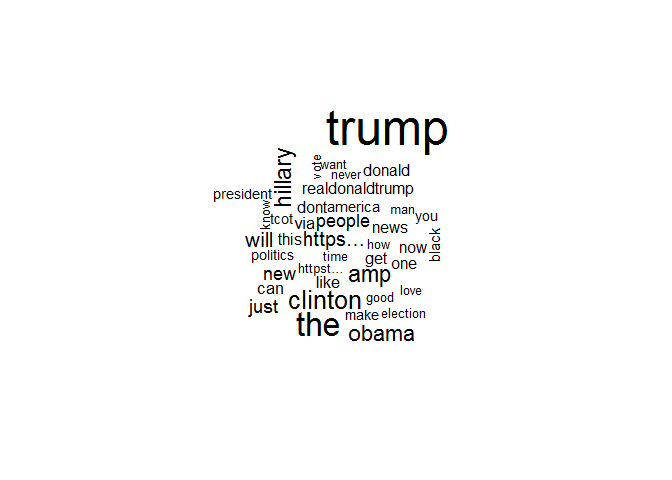
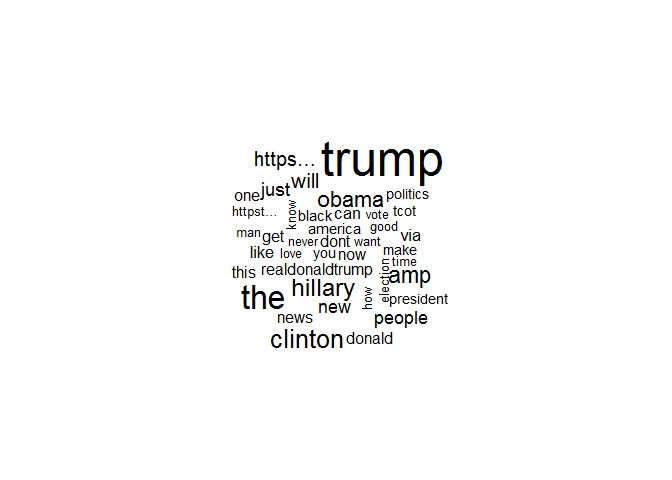
random forest roc and markdown

Changed region(s): [[0.3125, 0.2188, 0.6875, 0.75]]

diff --git a/russian_trolls.md b/russian_trolls.md
@@ -3,11 +3,11 @@ Russian Twitter Trolls
 
 Context
 
-As part of the House Intelligence Committee investigation into how Russia may have influenced the 2016 US Election, Twitter released the screen names of almost 3000 Twitter accounts believed to be connected to Russia’s Internet Research Agency, a company known for operating social media troll accounts. Twitter immediately suspended these accounts, deleting their data from Twitter.com and the Twitter API. A team at NBC News including Ben Popken and EJ Fox was able to reconstruct a dataset consisting of a subset of the deleted data for their investigation and were able to show how these troll accounts went on attack during key election moments. This dataset is the body of this open-sourced reconstruction.
+After extensive government investigations, it was determined that Russia and Iran tried to influence the U.S. 2016 presidential elections through social media platforms. To work the government in a constructive manner and keep its platform in a positive public light, Twitter made more than ten million foreign troll’s tweets available for research. A team at NBC News reconstructed a dataset of 200,000 Russian troll tweets and made it available on Kaggle. Their research showed these troll accounts were extremely active during key moments around the election. This project is attempting to determine which tweets are Russian troll tweets and which are not Russian troll tweets. It will be based on three predictive models, Naïve Bayes, logistic regression, and random forest. Then we will determine which predictive model is most effective when filtering the Russian troll tweets. This could be one of many possible filtering algorithms to help Twitter in identifying fake accounts of Russian or even Iranian trolls. There are two major reasons for Twitter to identify fake accounts: rebuilding public trust in their platform, and influence in the government’s creation of legislation regulating social media.
 
-For more background, read the NBC news article publicizing the release: "Twitter deleted 200,000 Russian troll tweets. Read them here."[NBC Russian Tweets](https://www.nbcnews.com/tech/social-media/now-available-more-200-000-deleted-russian-troll-tweets-n844731)
+For more background, read the NBC news article publicizing the release: "Twitter deleted 200,000 Russian troll tweets."[NBC Russian Tweets](https://www.nbcnews.com/tech/social-media/now-available-more-200-000-deleted-russian-troll-tweets-n844731)
 
-Content This dataset contains two CSV files. tweets.csv includes details on individual tweets, while users.csv includes details on individual accounts.
+Content This dataset contains two CSV files. tweets.csv includes details on individual tweets from known Russain troll accounts,and noemoticon.csv file that is pre-russain trolls(2009).
 
 To recreate a link to an individual tweet found in the dataset, replace user\_key in <https://twitter.com/user_key/status/tweet_id> with the screen-name from the user\_key field and tweet\_id with the number in the tweet\_id field.
 
@@ -129,7 +129,12 @@ library(tm) # text data
 
 ``` r
 library(effects) # regession models
+library(glm2)
+```
 
+    ## Warning: package 'glm2' was built under R version 3.4.4
+
+``` r
 #nt<-read.csv("C:/Users/John/Documents/R/russian_trolls/training.1600000.processed.noemoticon.csv")
 #rt <-read.csv("file:///C:/Users/John/Documents/R/russian_trolls/tweets.csv/tweets.csv")
 
@@ -173,7 +178,7 @@ tot_tweets<- rbind(ntext,rtext,stringAsfactors=FALSE)
 tot_tweets <- tot_tweets[sample(nrow(tot_tweets)),]
 
 #change character to factor
-tot_tweets$r_nr<-factor(tot_tweets$r_nr, levels=c("r","nr"),ordered=TRUE)
+tot_tweets$r_nr<-factor(tot_tweets$r_nr, levels=c("r","nr"),ordered=FALSE)
 
 #creating a corpus for the twitter text
 text_corpus<- VCorpus(VectorSource(tot_tweets$text))
@@ -254,13 +259,13 @@ wordcloud(norus$text, max.words = 40, scale = c(3,.5))
 ![](russian_trolls_files/figure-markdown_github/unnamed-chunk-5-3.png)
 
 ``` r
-#number of frequent terms. frenquency filter of words used less than 5 times
-tweet_freq_words <- findFreqTerms(text_dtm_train, 5)
+#number of frequent terms. frenquency filter of words used less than 20 times
+tweet_freq_words <- findFreqTerms(text_dtm_train, 20)
  
  str(tweet_freq_words)
 ```
 
-    ##  chr [1:2590] "â–¶" "â€¦" "â€˜" "â€“" "â€œ" "â«" "â»" "aâ€¦" "abc" ...
+    ##  chr [1:660] "â€¦" "â€˜" "â€“" "â€œ" "abl" "accept" "account" "accus" ...
 
 ``` r
 #create DTM
@@ -306,16 +311,16 @@ tweet_classifier<- naiveBayes(tweet_train,text_train_labels)
     ##              | actual 
     ##    predicted |         r |        nr | Row Total | 
     ## -------------|-----------|-----------|-----------|
-    ##            r |       894 |        23 |       917 | 
-    ##              |     0.975 |     0.025 |     0.459 | 
-    ##              |     0.902 |     0.023 |           | 
+    ##            r |       875 |        20 |       895 | 
+    ##              |     0.978 |     0.022 |     0.448 | 
+    ##              |     0.881 |     0.020 |           | 
     ## -------------|-----------|-----------|-----------|
-    ##           nr |        97 |       986 |      1083 | 
-    ##              |     0.090 |     0.910 |     0.541 | 
-    ##              |     0.098 |     0.977 |           | 
+    ##           nr |       118 |       987 |      1105 | 
+    ##              |     0.107 |     0.893 |     0.552 | 
+    ##              |     0.119 |     0.980 |           | 
     ## -------------|-----------|-----------|-----------|
-    ## Column Total |       991 |      1009 |      2000 | 
-    ##              |     0.495 |     0.504 |           | 
+    ## Column Total |       993 |      1007 |      2000 | 
+    ##              |     0.496 |     0.503 |           | 
     ## -------------|-----------|-----------|-----------|
     ## 
     ## 
@@ -323,14 +328,16 @@ tweet_classifier<- naiveBayes(tweet_train,text_train_labels)
 ``` r
 #create ROC for Naive Bayes
 troc<-predict(tweet_classifier,tweet_test, type = "raw")
-predt<- prediction(troc[,"nr"],text_test_labels)
+predt<- prediction(troc[,"r"],text_test_labels)
+
+
 
 #calculate the area
 auc<-performance(predt,"auc")
 
 
 perf_r<- performance(predt, measure ='tpr',x.measure='fpr')
-plot(perf_r,colorize=T)
+plot(perf_r,colorize=T,main="Naive Bayes")
 ```
 
 ![](russian_trolls_files/figure-markdown_github/unnamed-chunk-8-1.png)
@@ -354,7 +361,7 @@ print(auc)
     ## 
     ## Slot "y.values":
     ## [[1]]
-    ## [1] 0.9781447
+    ## [1] 0.9764028
     ## 
     ## 
     ## Slot "alpha.values":
@@ -369,9 +376,71 @@ library(caret)
     ## Loading required package: lattice
 
 ``` r
+library(safeBinaryRegression)
+```
+
+    ## Warning: package 'safeBinaryRegression' was built under R version 3.4.4
+
+    ## Loading required package: lpSolveAPI
+
+    ## Warning: package 'lpSolveAPI' was built under R version 3.4.4
+
+    ## 
+    ## Attaching package: 'safeBinaryRegression'
+
+    ## The following object is masked from 'package:stats':
+    ## 
+    ##     glm
+
+``` r
+library(glmnet)
+```
+
+    ## Warning: package 'glmnet' was built under R version 3.4.4
+
+    ## Loading required package: Matrix
+
+    ## 
+    ## Attaching package: 'Matrix'
+
+    ## The following object is masked from 'package:tidyr':
+    ## 
+    ##     expand
+
+    ## Loading required package: foreach
+
+    ## Warning: package 'foreach' was built under R version 3.4.4
+
+    ## Loaded glmnet 2.0-16
+
+``` r
+library(Matrix)
+library(pROC)
+```
+
+    ## Warning: package 'pROC' was built under R version 3.4.4
+
+    ## Type 'citation("pROC")' for a citation.
+
+    ## 
+    ## Attaching package: 'pROC'
+
+    ## The following object is masked from 'package:glmnet':
+    ## 
+    ##     auc
+
+    ## The following object is masked from 'package:gmodels':
+    ## 
+    ##     ci
+
+    ## The following objects are masked from 'package:stats':
+    ## 
+    ##     cov, smooth, var
+
+``` r
  #logistic Regression
 
-sparse_dtm<-removeSparseTerms(text_dtm, 0.99) #terms appear in more than 1% of tweets
+sparse_dtm<-removeSparseTerms(text_dtm, 0.995) #terms appear in more than .5% of tweets or 230 
 
 #new Data frame
 tweetsSparse<-as.data.frame(as.matrix(sparse_dtm))
@@ -379,31 +448,29 @@ colnames(tweetsSparse)<-make.names(colnames(tweetsSparse))
 tweetsSparse$r_nr<-tot_tweets$r_nr
 
 #split the data set
-set.seed(200)
 
-split<- sample.split(tweetsSparse,SplitRatio=2/3)
+trainSparse<- tweetsSparse[1:9000,]
+testS<- tweetsSparse[9001:12000,]
 
-trainSparse<- subset(tweetsSparse, split=="TRUE")#in split 
-testSparse<- subset(tweetsSparse, split=="FALSE")#not in split
-
-tweet.logit <- glm(r_nr ~ ., data = trainSparse, family = "binomial")
+#logistic regression model
+tweet.logit<- glm2(r_nr~.,trainSparse, family = "binomial")
 ```
 
-    ## Warning: glm.fit: fitted probabilities numerically 0 or 1 occurred
+    ## Warning: glm.fit2: fitted probabilities numerically 0 or 1 occurred
 
 ``` r
-tweet.logit.test<-predict(tweet.logit,type = "response", newdata = testSparse)
+tweet.logit.test<-predict(tweet.logit,type = "response", newdata = testS,na.action=na.exclude)
 
 
-cmatrix_logregr<-table(testSparse$r_nr, tweet.logit.test>0.5)
+cmatrix_logregr<-table(testS$r_nr, tweet.logit.test>0.5)
 
 cmatrix_logregr
 ```
 
     ##     
     ##      FALSE TRUE
-    ##   r   1723  340
-    ##   nr    31 1992
+    ##   r   1286  217
+    ##   nr    33 1464
 
 ``` r
 tweet.logit.test1<-predict(tweet.logit, type = "response", newdata = trainSparse)
@@ -414,11 +481,31 @@ cmatrix1
 
     ##     
     ##      FALSE TRUE
-    ##   r   3255  682
-    ##   nr    38 3939
+    ##   r   3921  576
+    ##   nr    71 4431
 
 ``` r
-#Descision tree
+#create ROC for Logistic Regression
+
+troc2<-roc(testS$r_nr~tweet.logit.test)
+
+plot(troc2)
+```
+
+![](russian_trolls_files/figure-markdown_github/unnamed-chunk-9-1.png)
+
+``` r
+#calculate the area under the ROC
+auc2<-auc(troc2)
+
+
+print(auc2)
+```
+
+    ## Area under the curve: 0.9686
+
+``` r
+#Descision Tree
 library(rpart)
 ```
 
@@ -431,11 +518,67 @@ library(rpart.plot)
     ## Warning: package 'rpart.plot' was built under R version 3.4.4
 
 ``` r
-tweetCART <- rpart(r_nr ~ . , data = trainSparse, method = "class")
-prp(tweetCART)
+tweetcart<- rpart(r_nr~.,data = trainSparse, method = "class")
+prp(tweetcart)
 ```
 
 ![](russian_trolls_files/figure-markdown_github/unnamed-chunk-10-1.png)
+
+``` r
+predtcart<-predict(tweetcart,newdata=testS,type = "class")
+cartable<-table(testS$r_nr,predtcart)
+
+
+print(cartable)
+```
+
+    ##     predtcart
+    ##         r   nr
+    ##   r  1194  309
+    ##   nr    2 1495
+
+``` r
+#Random Forest
+library(randomForest)
+```
+
+    ## Warning: package 'randomForest' was built under R version 3.4.4
+
+    ## randomForest 4.6-14
+
+    ## Type rfNews() to see new features/changes/bug fixes.
+
+    ## 
+    ## Attaching package: 'randomForest'
+
+    ## The following object is masked from 'package:ggplot2':
+    ## 
+    ##     margin
+
+    ## The following object is masked from 'package:dplyr':
+    ## 
+    ##     combine
+
+``` r
+russianForest<- randomForest(r_nr~.,data=trainSparse,nodesize=25,ntrees=200,na.action=na.roughfix)
+predictForest<-predict(russianForest, newdata=testS)
+
+table(testS$r_nr,predictForest)
+```
+
+    ##     predictForest
+    ##         r   nr
+    ##   r  1285  218
+    ##   nr   44 1453
+
+``` r
+#random forest ROC
+rfroc<-prediction(as.numeric(predictForest),as.numeric(testS$r_nr))
+perf_3<- performance(rfroc,measure = 'tpr',x.measure = 'fpr')
+plot(perf_3, colorize =T, main= "Random Forest")
+```
+
+![](russian_trolls_files/figure-markdown_github/unnamed-chunk-10-2.png)
 
 If any of the three terms rt,trump, or clinton showed themselves in the Russian troll accounts.
 
